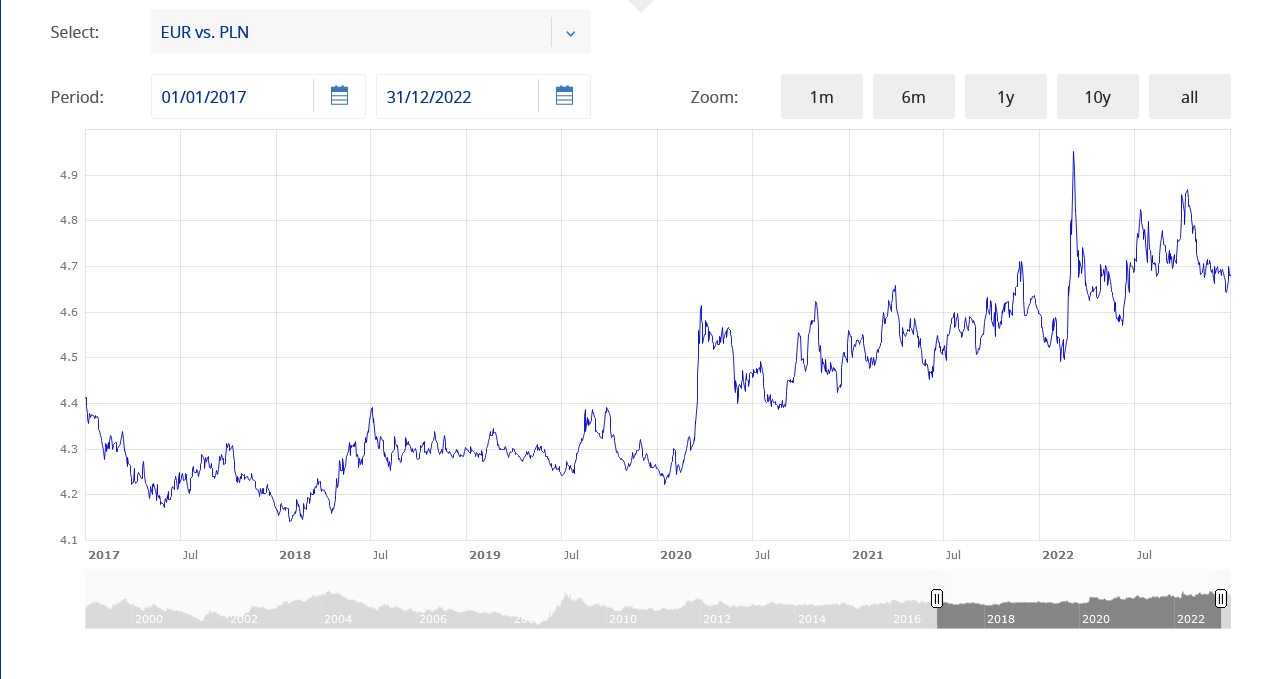
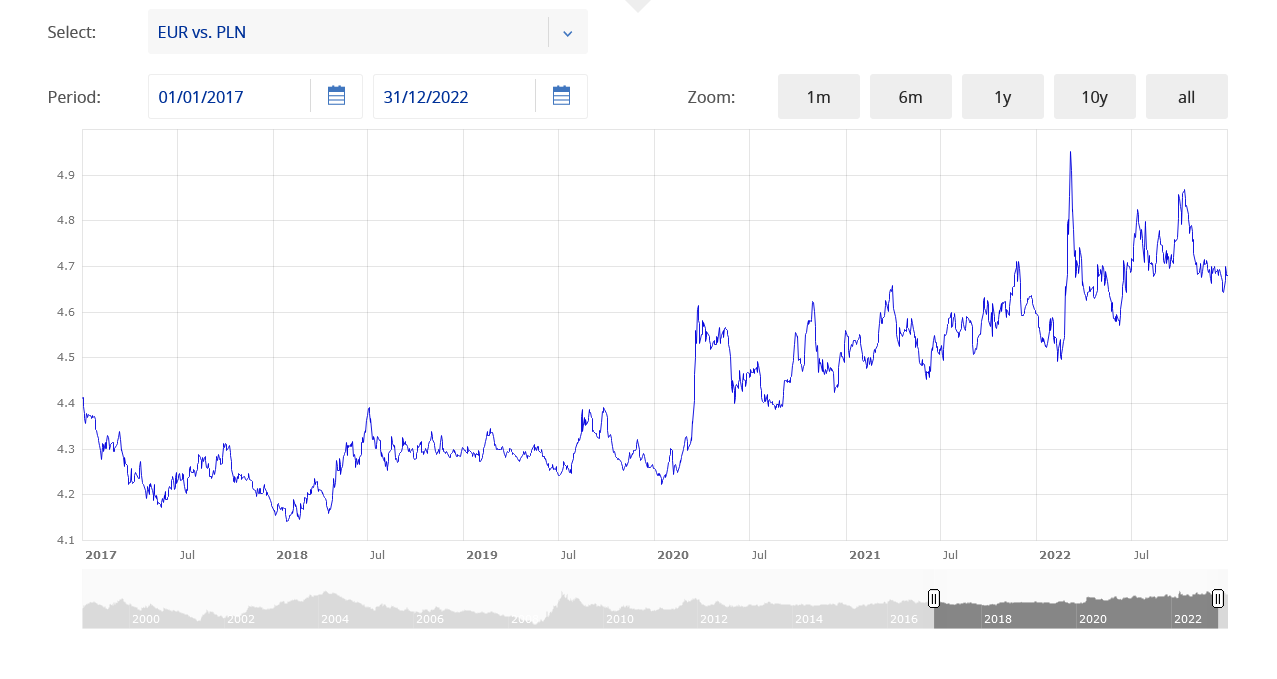
Currency Exchange | Added currencyexchange project

diff --git a/currencyexchange/currencyexchange/README.md b/currencyexchange/currencyexchange/README.md
@@ -66,8 +66,8 @@ European Central Bank provides data in XML format in daily intervals going as fa
 - For EUR best periods would be weeks 5 to 9 (03.02 - 03.03) and weeks 13 to 16 (01.04 - 22.04). If we want to be more relaxed we could even expand the second period to weeks 10 to 16 (08.03 -  22.04). This is quite interesting as on month-to-month analysis January did better than March.
 - For USD best periods would be weeks 1 to 10 (05.01 - 08.03) and weeks 14 to 18 (08.04 - 05.05). This is consistent with the month-to-month analysis
 - For finding the best periods I didn't use any scientific measurement but was looking at excel results and tried to find a decent consistent best period. The result is ad-hoc.
-- For the rest of the year the graph is very chaotic. This may be due to the *rank* operator. We are losing information by how much values within the week change. It may be so that the spread of currency exchange is not as drastic as this graph shows to be.
-- The chaotic nature of graph in later weeks of the year could be a result of my flawed definition of 'year of the week'. Each 'week of the year' tend to get longer as year progresses. Week 1 has 6 days while the last week, week 52, has 11 days. However even this should not cause such chaotic behavior. By days we mean dates that has been assigned to a n<sup>th</sup> week over analysis period (10 years).
+- For the rest of the year the graph is very chaotic. This may be due to the *rank* operator. We are losing information by how much values between the weeks change. It may be so that the spread of currency exchange is not as drastic as this graph shows to be.
+- The chaotic nature of graph in later weeks of the year could be a result of my flawed definition of 'year of the week'. Each 'week of the year' tend to get longer as year progresses. Week 1 has 6 days while the last week, week 52, has 11 days. However even this should not cause such chaotic behavior. By days in a week I mean dates that has been assigned to a n<sup>th</sup> week over analysis period (10 years).
 - Another explanation for the jumping points on the week graph may be a mixture of using the *rank* operator and strong downward trend of PLN value. There will be much less value distribution around the best times to buy than in other times of the year as the dataset is limited by the start of year. Hence much more concise rank values at the start of the year.         
 </details>
 
@@ -95,8 +95,8 @@ The chart shows EUR/PLN exchange rate for years in years 2017-2022 together with
 
 This chart is a visual proof of the downfall trend of the Polish economy. See how each year the PLN is losing value towards EUR and how the exchange of the following year is the above exchange rate of the previous year. As an alternative, you can just take a look at the linear graph provided by [ECB](https://www.ecb.europa.eu/stats/policy_and_exchange_rates/euro_reference_exchange_rates/html/eurofxref-graph-pln.en.html)
 
-<img src="https://user-images.githubusercontent.com/16683374/226143963-13e4e038-52b5-4673-9660-7e3e050462ac.png" alt="Eur-to-pln chart" width="50%" height="50%"/>
-<img src="https://user-images.githubusercontent.com/16683374/226143924-89433b9d-4e54-4bfd-bbfc-6239672b3a42.png" alt="Eur-to-pln chart linear chart for year 2017-2022" width="50%" height="50%"/>
+<img src="https://user-images.githubusercontent.com/16683374/227197210-9be29e40-3fd0-4588-bbfa-b81bcbd177c1.png" alt="Eur-to-pln chart linear chart for year 2017-2022" width="50%" height="50%"/>
+
 <img src="https://user-images.githubusercontent.com/16683374/226143964-49ca1b0a-77c1-4841-b9c5-9b2084a0c671.png" alt="Usd-to-pln chart" width="50%" height="50%"/>
 
 
